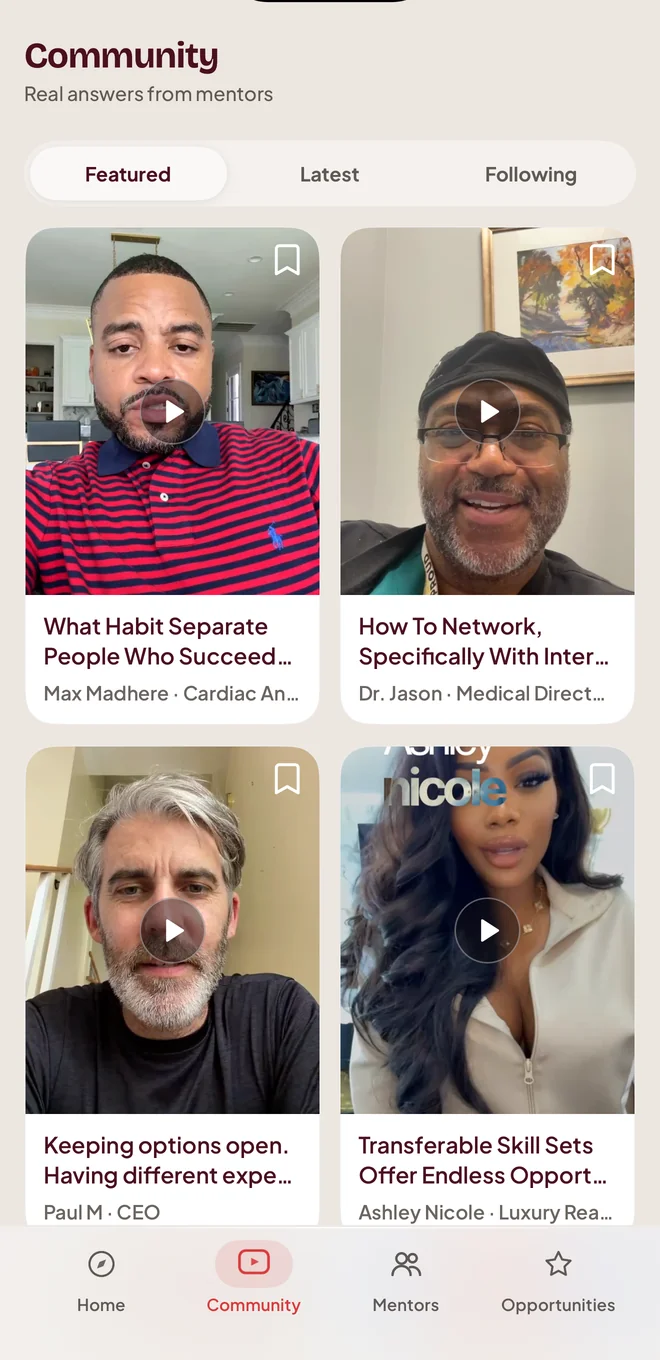
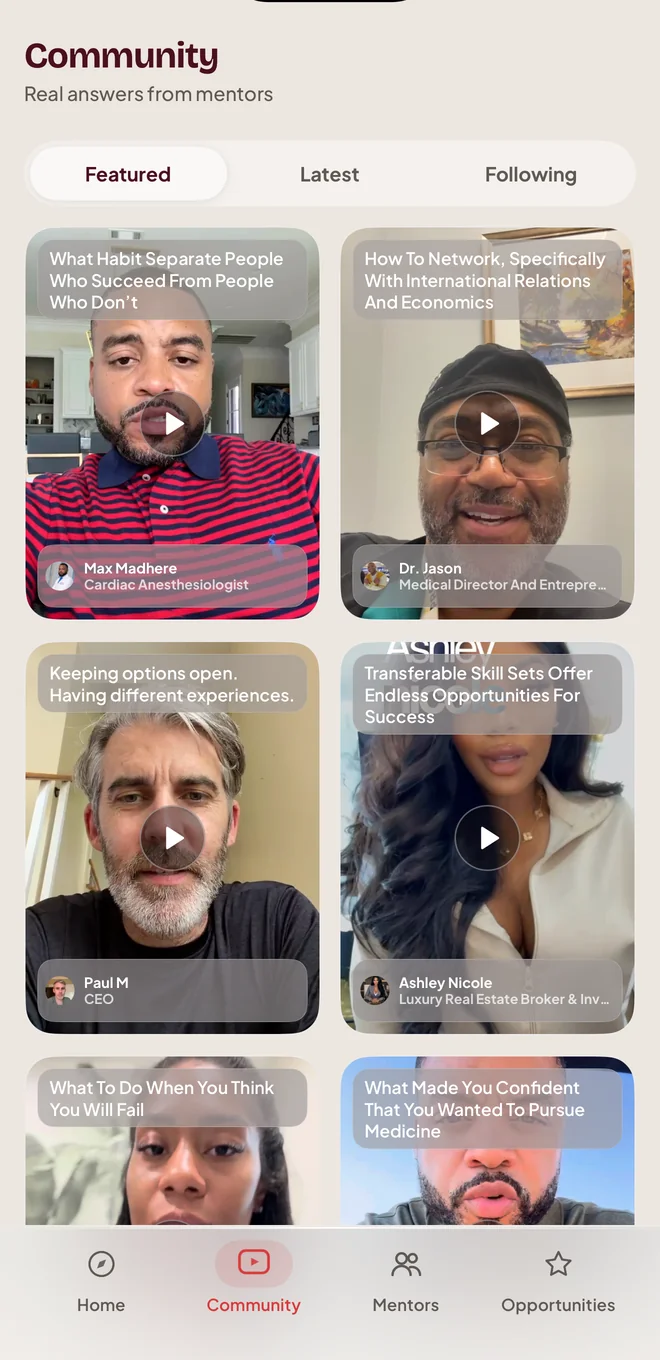
Retake Home and Community: video cards now carry their titles on the artwork
Both mentee shots change because the video card did. Titles and mentor details
sit on the thumbnail behind frosted glass instead of in a body strip below it,
so more of each video shows and the card stops being mostly chrome.

Home's Featured rail takes the title only, at the bottom, with no byline and no
bookmark: it is a browse rail, and both were competing with the question.

diff --git a/index.html b/index.html
@@ -376,7 +376,7 @@ const PAIRS = {
   ],
   mentor: [
     {key:"home",      label:"Home",          note:'The current app opens a mentor on their own profile. <b>The redesign opens on their mentees&rsquo; progress</b> and the questions still waiting.'},
-    {key:"mentees",   label:"Mentees",       note:'Roster, capacity and requests in one place, <b>with the open slots shown as open</b>.'},
+    {key:"mentees",   label:"Mentees",       note:'Roster, capacity and requests in one place. <b>Each mentee&rsquo;s industry reads off the glyph and their milestone progress off the bar</b>, without opening anyone.'},
     {key:"community", label:"Community",     note:'What students are asking, <b>promoted out of a segment buried inside the mentor&rsquo;s own profile</b>.'},
     {key:"opps",      label:"Opportunities", note:'<b>Posting is the page.</b> The feed is a tab.'},
   ],
